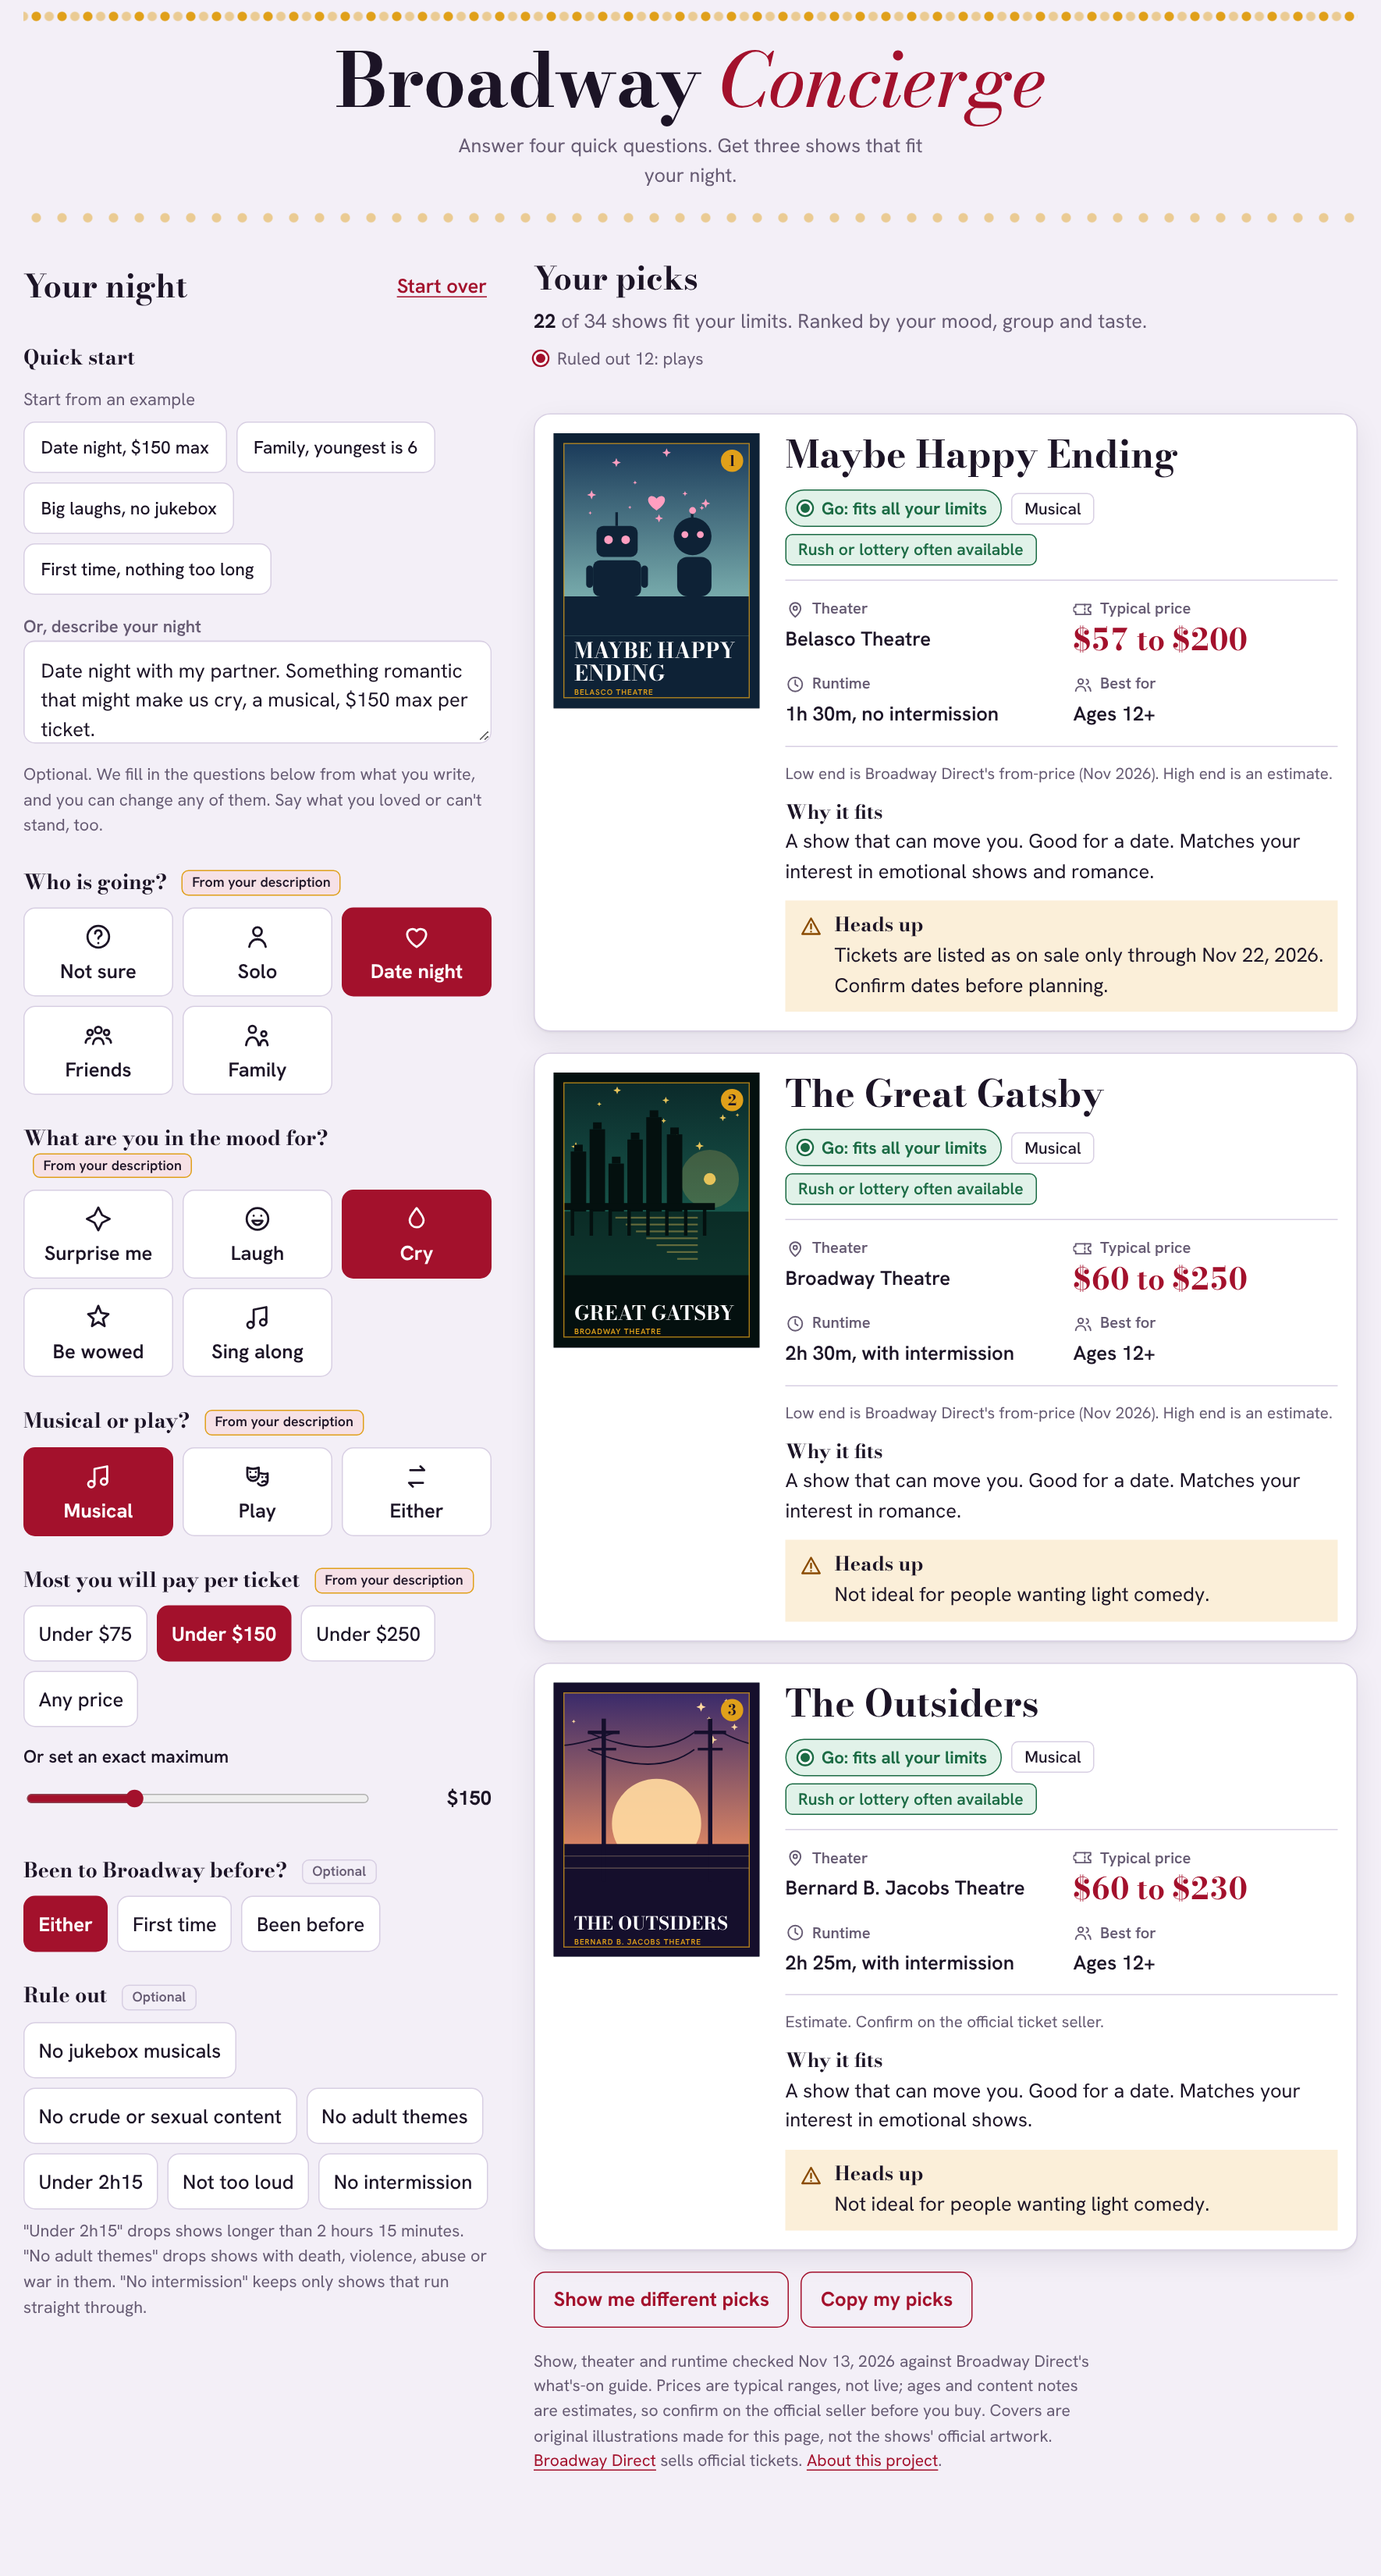
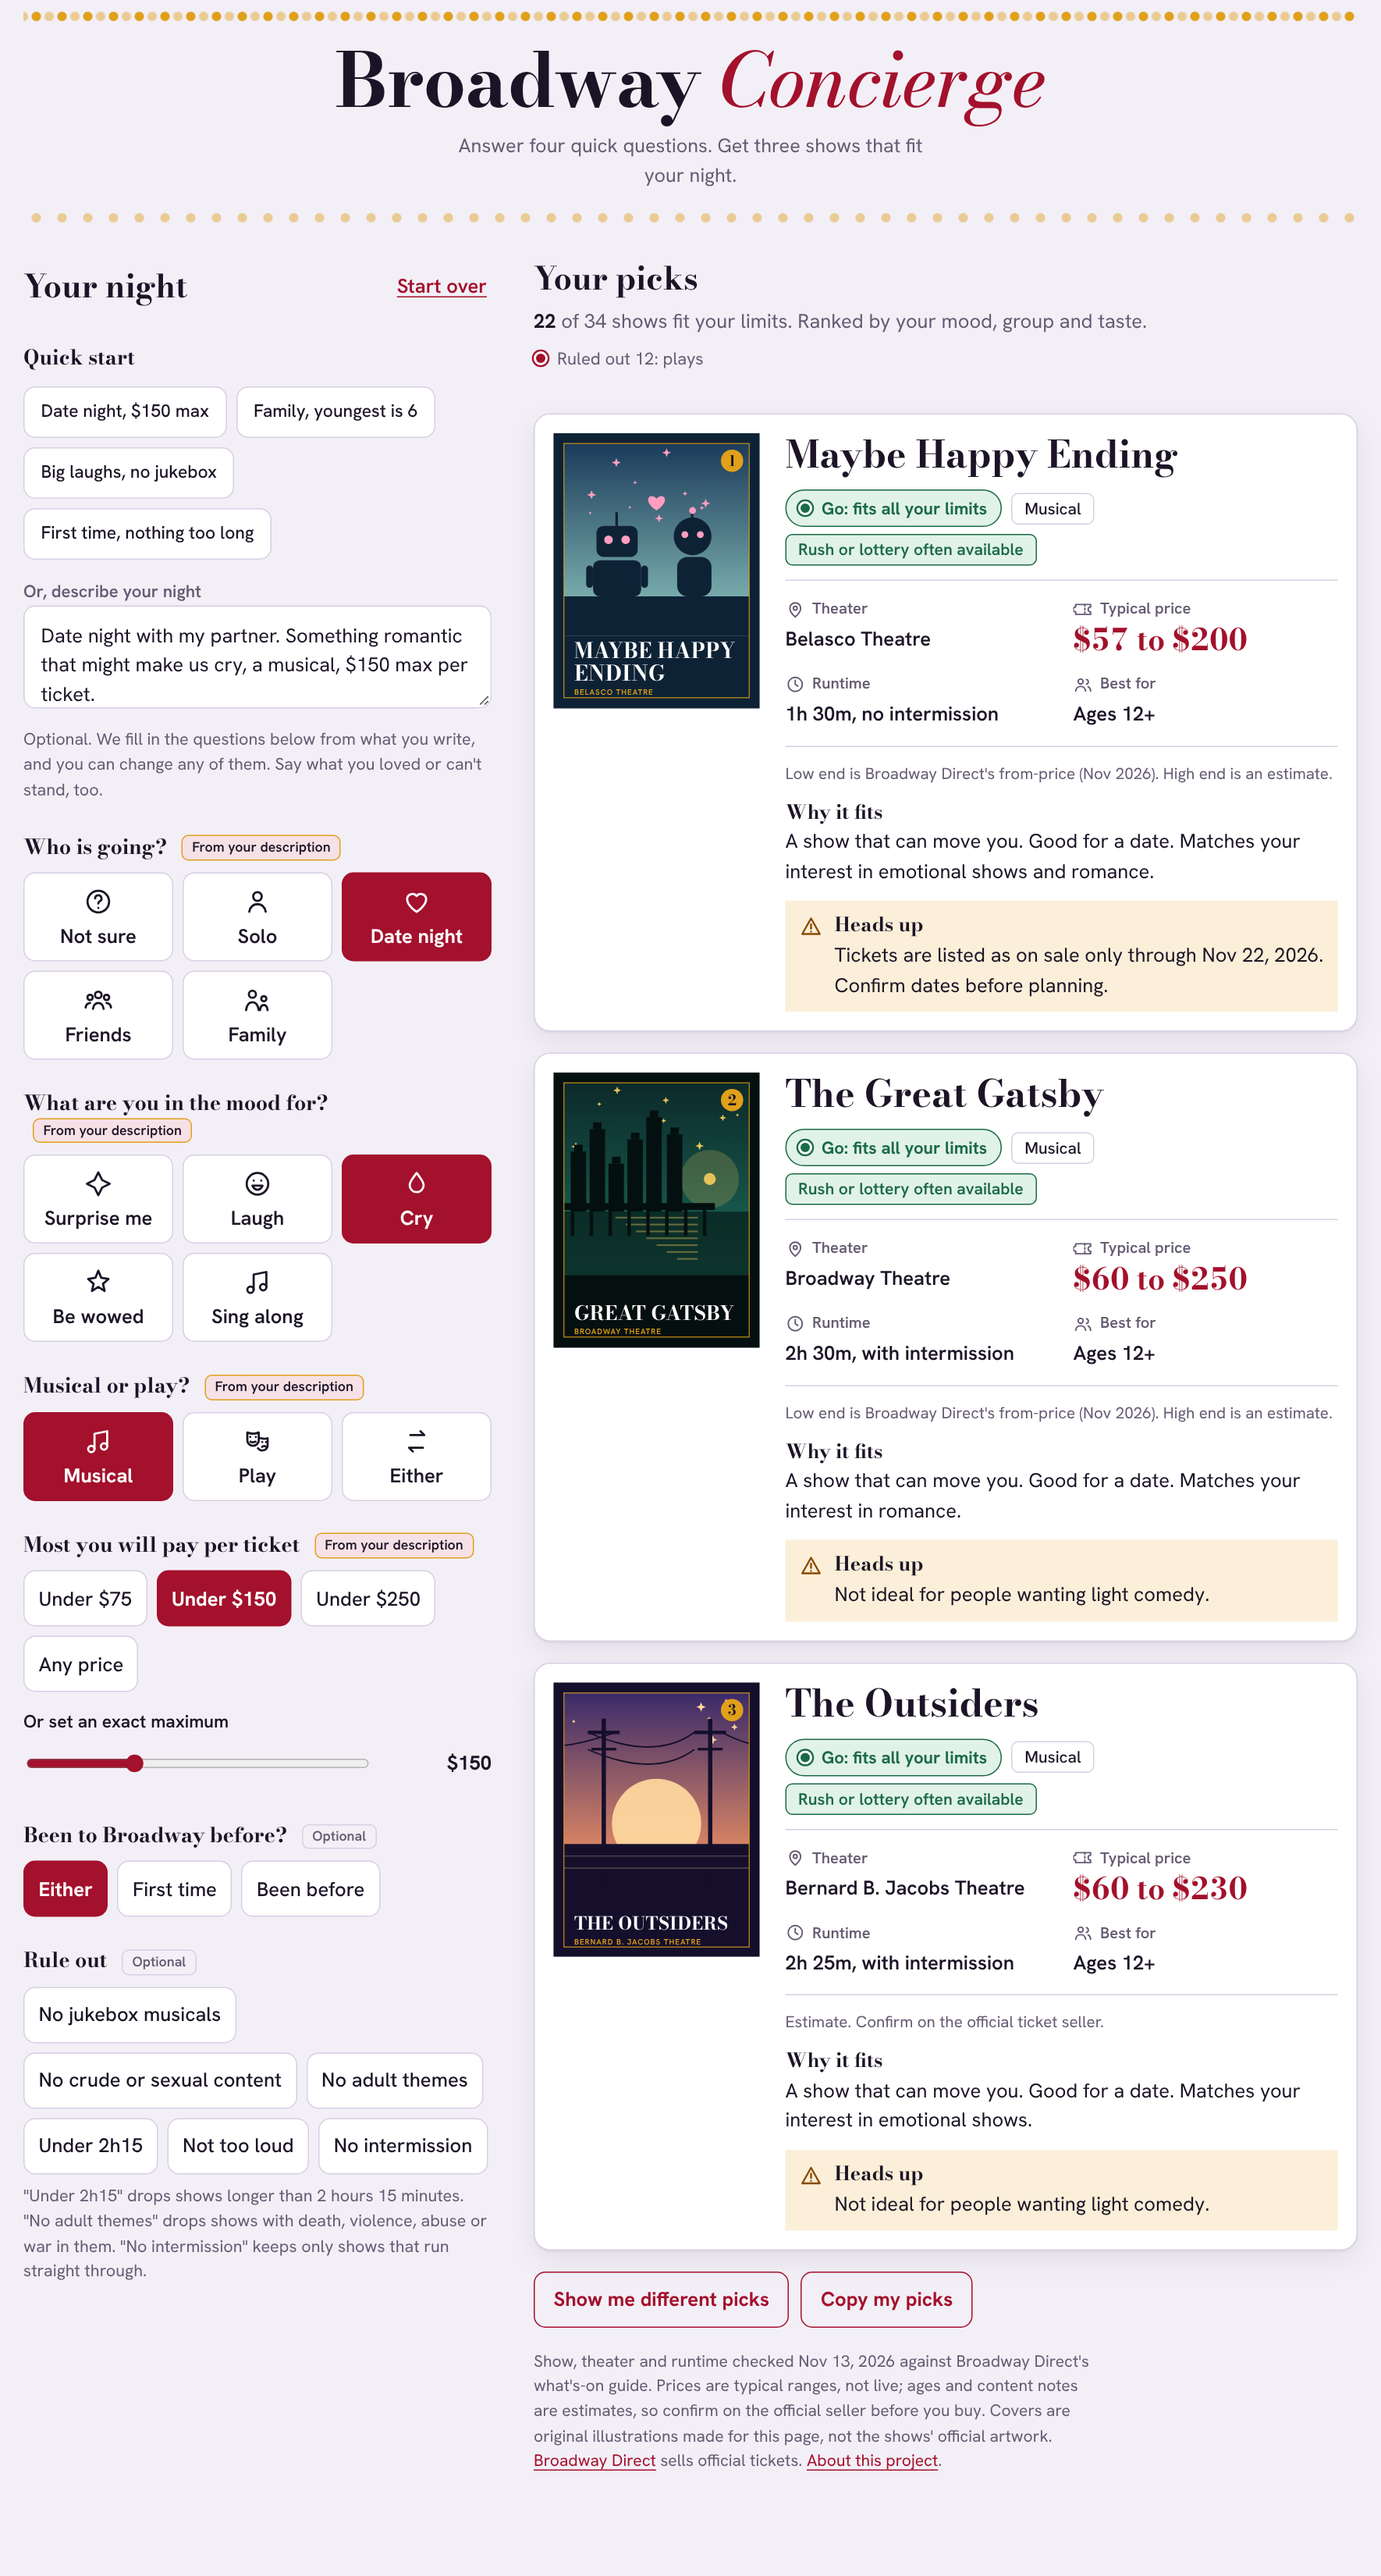
Remove the 'Start from an example' label above the quick-start examples
Claude-Session: https://claude.ai/code/session_01Mk4kRkDjvttoeYX5ChiD1e

Changed region(s): [[0.0, 0.1561, 0.3729, 0.9052], [0.2486, 0.437, 0.3729, 0.4994], [0.1864, 0.1561, 0.3107, 0.1873]]

diff --git a/docs/app/index.html b/docs/app/index.html
@@ -216,7 +216,7 @@ button.line:hover { background: var(--accent-soft); }
 
       <div class="quickstart">
         <span class="label">Quick start</span>
-        <div class="quick" id="quick"><p>Start from an example</p></div>
+        <div class="quick" id="quick" role="group" aria-label="Examples"></div>
         <div class="qs">
           <label class="or" for="text">Or, describe your night</label>
           <textarea id="text" placeholder="Taking my mom for her birthday. She loved Wicked, we want to laugh, and $150 a ticket is our max."></textarea>
@@ -867,7 +867,7 @@ const POSTHOG = {"token":"phc_kUeY6SQddEZSftHjWuX2XWQpKrHHY2fuACr8YcDN36wc","hos
   };
   const icon = (name) => `<svg viewBox="0 0 24 24" aria-hidden="true">${ICONS[name]}</svg>`;
 
-  // who, mood and budget start unset (undefined) because they are required; budget null means "any price".
+  // who, mood, type and budget start unset (undefined) because they are required; budget null means "any price".
   // `auto` lists answers filled in from the description; `autoRules` the rule-outs filled in that way.
   const fresh = () => ({ who: undefined, mood: undefined, type: undefined, budget: undefined, age: null, first: "", rules: [], text: "", auto: new Set(), autoRules: [] });
   // Each example is a description; picking one fills the text box and the questions are read from it.

diff --git a/web/template.html b/web/template.html
@@ -216,7 +216,7 @@ button.line:hover { background: var(--accent-soft); }
 
       <div class="quickstart">
         <span class="label">Quick start</span>
-        <div class="quick" id="quick"><p>Start from an example</p></div>
+        <div class="quick" id="quick" role="group" aria-label="Examples"></div>
         <div class="qs">
           <label class="or" for="text">Or, describe your night</label>
           <textarea id="text" placeholder="Taking my mom for her birthday. She loved Wicked, we want to laugh, and $150 a ticket is our max."></textarea>
